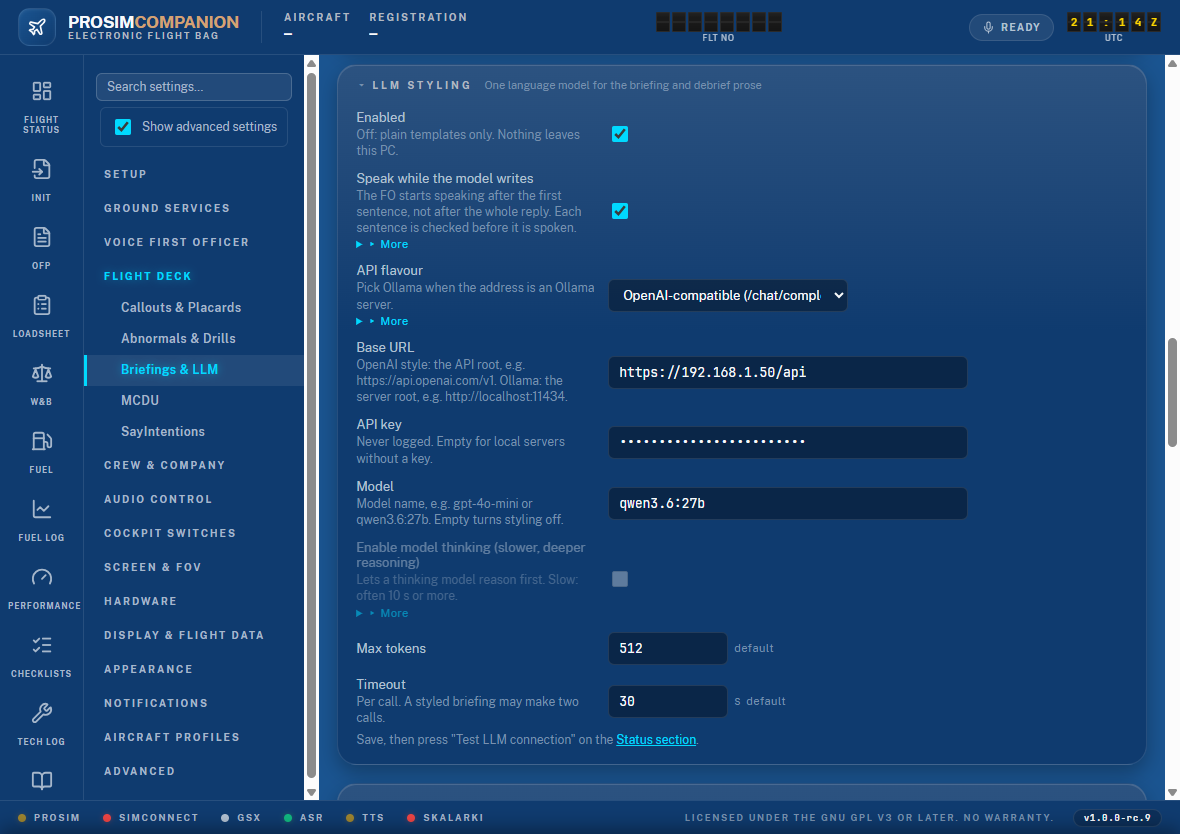
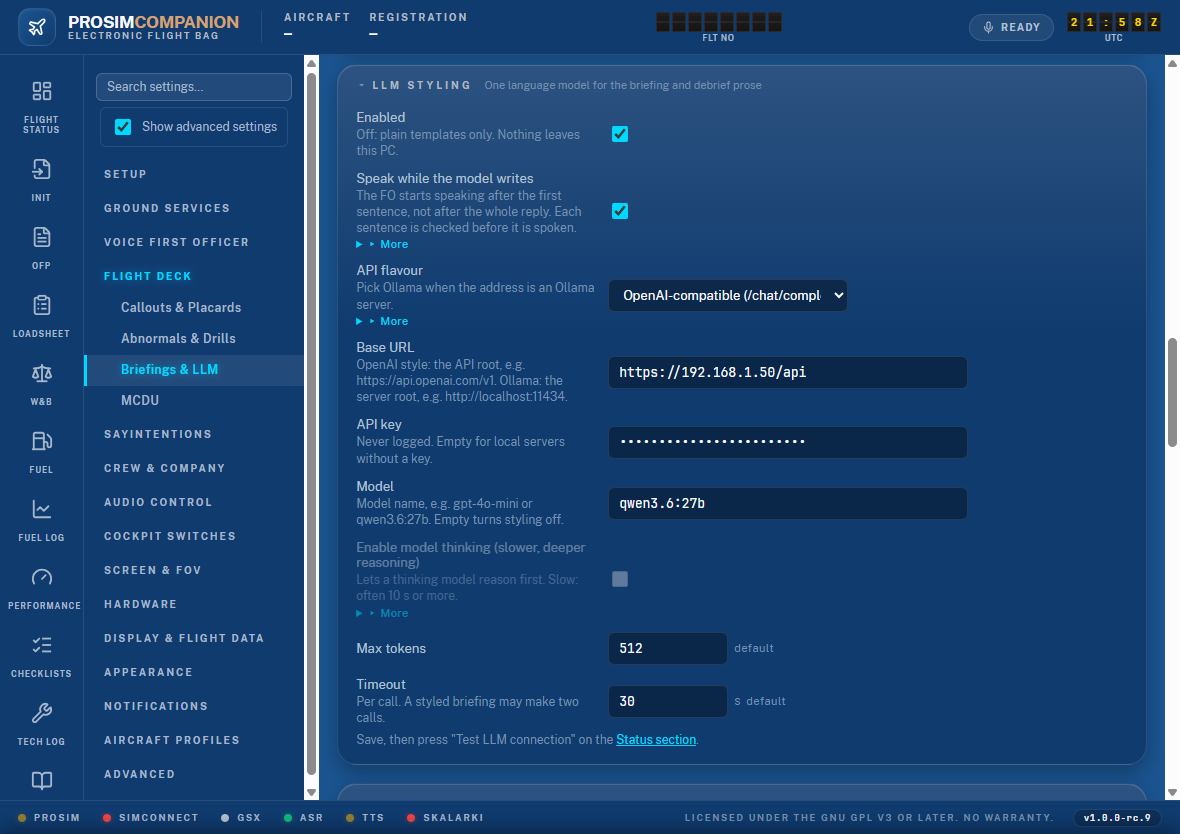
Manual chapter 17 "SayIntentions: ATC requests, the radios and weather", and three pictures retaken on a build of this branch.
Owner request 2026-11-16. docs/manual/17-sayintentions.md: what needs an active flight and what needs only the API key, Auto against Manual key, the set-up steps, the spoken requests with the call each one makes (from the shipped atc-requests.json), the three ways to share the radios with the SayIntentions copilot (requests only, Comms hand-over, FO works the radios) and which switch makes which other one inert, push-to-talk from a ProSim switch with the ATC mute it sets, the arrival gate from ATC, weather, a check, and a troubleshooting table with the FO's real lines. Its row in docs/manual/README.md (Voice First Officer group), chapter 15's "Next:" link now leads to it, and the sayIntentions row of 04-settings-reference.md gives the new menu path and links it.

Pictures, taken on the owner's dev PC from the local 1.0.0-rc.9 built from this branch, server addresses changed in the browser only: docs/img/sayintentions.png (new; the page in its own menu place, switched on), speech-recognition-server.png (the type now reads "OpenAI-style (/v1/audio/transcriptions)"; the port shown is the example one), briefings-llm.png (the API key is the app's own password field now).
[…]

diff --git a/docs/manual/17-sayintentions.md b/docs/manual/17-sayintentions.md
@@ -1,0 +1,170 @@
+# SayIntentions: ATC requests, the radios and weather
+
+SayIntentions is an online ATC service with AI controllers. With it switched on in
+ProsimCompanion you ask the First Officer by voice to call ATC ("request push and start"),
+the FO watches that COM1 is on the frequency ATC gave you, and the app gets ATIS, METAR and
+TAF for your airports. SayIntentions is a paid service of its own
+(<https://www.sayintentions.ai>); the app adds no cost. You need the SayIntentions program
+installed and signed in on the sim PC.
+
+In every version since **0.3.0-beta.30**. The cards **Comms hand-over** and
+**FO works the radios** arrived later.
+
+![SayIntentions settings](../img/sayintentions.png)
+
+## Before you start
+
+**What needs what.**
+
+| You want | What must be there |
+|---|---|
+| Voice requests to ATC, the radios features | The SayIntentions program running, with an active flight |
+| Weather (ATIS, METAR, TAF) and the CPDLC logon | Only the API key. No active flight is needed. |
+| Push-to-talk from a cockpit button | MSFS running |
+
+**The API key.** The API key is the password the app uses to talk to SayIntentions for you.
+With **Auto (from flight.json)** you type nothing: the app reads the key from a file that
+the SayIntentions program writes on this PC
+(`%LOCALAPPDATA%\SayIntentionsAI\flight.json`). This only works when SayIntentions runs on
+the same PC and the same Windows account as ProsimCompanion. If it runs on another PC,
+choose **Manual (entered below)** and paste the key.
+
+**The three things people get wrong:**
+
+1. **Two voices answer ATC.** SayIntentions has its own copilot who can work the radios. The
+   app's FO can do that job too. Decide who does it; see "Who works the radios" below.
+2. **The FO hears you talk to ATC.** With continuous listening the FO listens while you
+   speak to the controller. Tell the app which button is your ATC button; see
+   "Push-to-talk from the cockpit" below.
+3. **Every call is heard twice.** The FO says the radio call aloud before it is sent. If
+   SayIntentions plays the same call on your setup, untick **FO speaks the transmission**.
+
+## Set it up
+
+1. Start SayIntentions on the sim PC and sign in.
+2. In ProsimCompanion open **Settings → SayIntentions**
+   (`http://localhost:5320/settings/speech/sayIntentions`).
+3. Tick **Use SayIntentions**. The other fields unlock.
+4. **API key**: leave it on **Auto (from flight.json)**. Only when SayIntentions runs on
+   another PC: choose **Manual (entered below)** and paste the key into **Manual API key**.
+5. **Phraseology**: how the FO says numbers on the radio. Leave ICAO, or choose FAA or UK
+   for flights there.
+6. Leave **FO speaks the transmission** ticked.
+7. Leave **Wrong-frequency report** ticked and **Wait before the report** on `60` s.
+8. Leave the rest as it is.
+9. Press **Save** in the bar at the bottom of the page.
+
+No restart is needed.
+
+## What you can say
+
+Hold your FO push-to-talk key and say the request. The FO answers, for example
+*"Roger — calling Ground."*, waits until the frequency is quiet, and then makes the call on
+COM1.
+
+| You say | The FO calls | The call (ICAO style) |
+|---|---|---|
+| "request clearance" | Clearance Delivery | "Delivery, *callsign*, request clearance" |
+| "request start" | Ground | "Ground, *callsign*, stand *n*, request start up" |
+| "request push and start" | Ground | "Ground, *callsign*, stand *n*, request push and start" |
+| "request taxi" | Ground | "Ground, *callsign*, stand *n*, request taxi" |
+| "ready for departure", "request takeoff", "call the tower" | Tower | "Tower, *callsign*, holding point runway *nn*, ready for departure" |
+| "request climb", "request higher" | Center | "*callsign*, request climb, flight level *nnn*" |
+| "request diversion" | Center | "*callsign*, request diversion to *airport*" |
+
+The callsign, stand and runway come from SayIntentions. The header's **VOICE** button shows
+the full list in the app. The phrases and the wording of each call are in the file
+`atc-requests.json` in `%LOCALAPPDATA%\ProsimCompanion\config\`; you can add your own.
+
+**Auto-tune frequency** (off): tick it and the FO tunes the station on COM1 before a request.
+
+## Who works the radios
+
+Choose one of three ways. Start with the first.
+
+| Way | What happens | How to switch it on |
+|---|---|---|
+| **1. Requests only** | You ask the FO for each call, as in the table above. Everything else on the radio is as you set it in SayIntentions. | This is what you have after "Set it up". |
+| **2. Comms hand-over** | The SayIntentions copilot works the radios at the gate, on the taxi and in the cruise. You take them at the holding point and on the approach. The FO tells you each hand-over in one line. | In the card **Comms hand-over** tick **Hand the radios over by flight phase**. Leave the other switches of the card as they are. |
+| **3. FO works the radios** | The SayIntentions copilot is switched off. The FO reads back every ATC instruction, tunes COM1 on a hand-off and checks in on the new frequency. One voice on the radio. The page says: "Not yet verified in flight." | In the card **FO works the radios** tick **FO works the radios**. |
+
+- With way 3 on, the **Comms hand-over** card is ignored.
+- With way 2 on, **Departure comms gate (legacy)** is ignored. That older switch gave you the
+  radios near the runway; it is only used with way 1.
+- At any time say *"I have the radios"* to take them and *"you have the radios"* to give
+  them back.
+- In way 2 the holding-point step needs the departure runway in the FMS. Without a known
+  runway it cannot happen.
+
+More about what the FO says on the radio: [Voice First Officer](03-voice-fo.md).
+
+## Push-to-talk from the cockpit
+
+Use this when the button you talk to ATC with is a sidestick or hand-mic button that ProSim
+knows (it can be on another PC). The app then presses SayIntentions' talk button for you, and
+the FO stops listening while you hold it.
+
+1. In ProSim, bind your button to the sidestick or hand-mic PTT switch.
+2. In the SayIntentions program, under **Controls**, switch on the option to map PTT inside
+   the sim with an LVAR.
+3. In ProsimCompanion, on the SayIntentions page, choose your switch in **Push-to-talk from
+   the cockpit**, for example **Captain sidestick PTT**.
+4. Leave **SayIntentions PTT control** on **COM radio PTT (the selected radio)**.
+5. Press **Save**.
+
+When you choose a switch here, the app sets **ATC mute from a ProSim switch** on
+**Settings → Voice First Officer → Listening & PTT** to the same switch, if that field was
+still **Off**. This is what keeps the FO from hearing your ATC calls.
+
+## Arrival gate and weather
+
+- **Arrival gate from ATC** (off): tick it and the gate that SayIntentions ATC gives you
+  becomes the GSX arrival gate. A gate you set yourself on the OFP page always wins. It is
+  off because the gate ATC picks may not exist in your airport scenery.
+- **SayIntentions Weather**: the card's **Enabled** switch is on. It gets ATIS, METAR and
+  TAF for the airports of your flight plan and keeps each report for 10 minutes.
+
+## Check that it works
+
+1. Open the **Flight Status** page and look at the **Radios** tile. With SayIntentions on and
+   a flight active it shows COM1 and, beside **ATC expects**, the frequency ATC gave you.
+   Before ATC has named one it reads "SayIntentions has not named a station yet".
+2. With a flight active in SayIntentions, hold your FO key and say *"request clearance"*.
+   You hear *"Roger — calling Clearance Delivery."* and then the call. SayIntentions ATC
+   answers.
+3. If you set up the cockpit push-to-talk: hold the button. SayIntentions shows that you are
+   transmitting.
+
+## If it does not work
+
+| What you see or hear | Why | What to do |
+|---|---|---|
+| The Radios tile reads "Switch SayIntentions on under Settings → SayIntentions to see which frequency ATC expects" | **Use SayIntentions** is unticked, or you did not press **Save**. | Tick it and **Save**. |
+| The FO says "SayIntentions has no active flight." | The SayIntentions program is not running, or no flight is started in it. | Start SayIntentions and start the flight there. |
+| The FO says "I can't reach SayIntentions — no API key." | With **Auto**: the app found no key file on this PC, because SayIntentions runs on another PC or another Windows account, or has never run here. With **Manual**: the **Manual API key** field is empty. | Run SayIntentions on the sim PC, or choose **Manual (entered below)** and paste the key. |
+| The FO says "The SayIntentions request failed — see the log." | SayIntentions did not accept the call: no internet, the service is down, or a pasted key is no longer valid. | Check the internet connection. With **Manual**, paste the key again. Look at the Logs page. |
+| "Stored key can't be decrypted on this PC/user (settings copied from elsewhere) — re-enter it and save." under the key field | `settings.json` came from another PC or Windows account. | Paste the **Manual API key** again and **Save**. |
+| You hear every call twice | The FO says it and SayIntentions plays it too. | Untick **FO speaks the transmission**. |
+| The FO answers "Roger — calling …" and then waits | The FO waits until nobody talks on the frequency, at most 20 seconds. | Nothing. This is normal. |
+| The FO reacts when you talk to ATC | The FO does not know your ATC button. | Set up "Push-to-talk from the cockpit", or bind **ATC push-to-talk (mute)** on **Listening & PTT**. |
+| The Radios tile shows **WRONG FREQUENCY**, or the FO tells you COM1 is on another frequency | COM1 is not on the frequency of ATC's last "Contact … on …". | Press **Tune** on the tile, or tune it yourself. |
+| COM1 jumps back to another frequency about a second after you change it, or your squawk code changes by itself | MSFS's own ATC helper is tuning the radio. | In MSFS, Assistance options, switch **AI Radio Communications (ATC)** off. |
+| The cockpit push-to-talk does nothing | MSFS is not running, the button is not bound to the switch in ProSim, or the LVAR option in SayIntentions is off. | Check the three steps in "Push-to-talk from the cockpit". |
+| With **Comms hand-over** on, you never get the radios at the holding point | The app does not know the departure runway. | Enter the runway in the FMS before you taxi. Say *"I have the radios"* to take them now. |
+| The arrival gate from ATC is not found by GSX | The gate ATC picked does not exist in your scenery. | Choose the gate yourself on the OFP page. Untick **Arrival gate from ATC** if it happens often. |
+
+For anything else: reproduce it, then use **Export diagnostics** on the Logs page and send
+the zip. Your key is never in the logs and is removed from the exported settings.
+
+## Related chapters
+
+- [Voice First Officer](03-voice-fo.md): the radio calls in detail, "FO works the radios".
+- [Settings reference](04-settings-reference.md): the `sayIntentions` section and
+  `atc-requests.json`.
+- [Speech recognition server](16-speech-recognition-server.md): the FO hears requests more
+  reliably with one.
+- [Troubleshooting](05-troubleshooting.md).
+
+---
+
+**Next:** [Loudspeaker dial](08-loudspeaker-dial.md) · [Manual contents](README.md)

diff --git a/docs/manual/04-settings-reference.md b/docs/manual/04-settings-reference.md
@@ -46,7 +46,7 @@ for the DFD database), else the system drive.
 | `smallTalk` | Settings → Flight Deck → Briefings & LLM → Small Talk | Cruise small talk (#195) — `enabled` off, `maxPerFlight` 3 (the ceiling; the persona's chattiness is the count), `minQuietMinutes` 8, `kinds.offer` / `kinds.view` / `kinds.layover` / `kinds.crew` on |
 | `groundCrew.walkaround` | Settings → Crew & Company → Ground Crew → Walkaround | The FO's exterior walkaround (#196) — `enabled` off, `minMinutes` 6, `maxMinutes` 10, `findingChance` 0.15, `allowNoGo` off, `onInterphone` on; the findings are `walkaround-findings.json` |
 | `scenario` | Settings → Flight Deck → Abnormals & Drills → Scenarios | Scenario mode (#197, ADR-0018) — `enabled` off, `perFlightChance` 0.10, `allowMajor` off, `takeoffScenarios` off, `minAltitudeFt` 1500, `showPlanned` off; the catalogue is `scenarios.json` (entries need `verified: true` with ProSim's exact failure name) |
-| `sayIntentions` | Settings → Flight Deck → SayIntentions | API key source, phraseology, auto-tune, departure gating, the wrong-frequency report (`frequencyMonitorEnabled` true, `frequencyMonitorWaitSeconds` 60), **arrival gate from ATC** (`arrivalGateFromAtc` off — SayIntentions' assigned gate becomes the GSX arrival gate), weather |
+| `sayIntentions` | Settings → SayIntentions | setup guide: [chapter 17](17-sayintentions.md); API key source, phraseology, auto-tune, departure gating, the wrong-frequency report (`frequencyMonitorEnabled` true, `frequencyMonitorWaitSeconds` 60), **arrival gate from ATC** (`arrivalGateFromAtc` off — SayIntentions' assigned gate becomes the GSX arrival gate), weather |
 | `cabin` | Settings → Crew & Company → Cabin Crew | purser reports, the cabin-secure wait (`cabinSecureMinDelaySeconds` 45, `cabinSecureSecondsPerPax` 1.0, `cabinSecuringReplyText`), the FO's cabin-call auto-answer (`autoAnswerGround` off / `autoAnswerGroundDelayMs` 4000, `autoAnswerAir` off / `autoAnswerAirDelayMs` 2500), ambient events, the purser cruise query (`cruiseQuery` off, `cruiseQueryDelayMinutes` 10, `cruiseQueryWindowSeconds` 20, wording `cruiseQueryText` / `cruiseQueryEtaAckText` / `cruiseQueryRideAckText` / `cruiseQueryGenericAckText` / `cruiseQueryNoReplyText`), **turbulence** (`turbulenceDetection` off, `turbulenceUnit` auto, `turbulenceLightG` 0.2 / `turbulenceModerateG` 0.5 / `turbulenceSevereG` 1.0, `turbulenceSeatbeltAdvice` off, `turbulencePurserCall` off), **captain's PA** (`paPrompts` off, `paAfterTakeoffMinutes` 10, `purserPaAudible` off), the turbulence and PA wording (`turbulenceCallText` … `paPrepareLandingText`), dings, interphone chime |
 | `company`, `debrief`, `day` | Settings → Crew & Company → Company & Debrief | company channel (auto loadsheet read, ACARS chime, cruise messages + probability, **movement messages** (`movementMessages` off, `movementMessagesSpoken` off — the MVT AD/AA telex in RCVD MSGS slots 06/07), **delay codes** (`delayCodes` off — the FO asks for the IATA code when off blocks is late; `delayToleranceMinutes` 15 is the on-time rule for the question, the Logbook and the day summary; the list is `%LOCALAPPDATA%\ProsimCompanion\config\delay-codes.json`), save the spoken loadsheet), post-flight debrief (on, full / brief, LLM styling), company day mode (auto track — **on by default since 1.0**, ADR-0019 §7; a settings.json that says `false` keeps saying it — start at first preflight, the next leg starts on its OFP (never on the Preflight edge), turnaround summary, post-flight allowance, **auto-close idle** (`autoCloseIdleMinutes` **300** since 1.0, ADR-0019 §8 — counted from deboarding complete, else on-blocks; phase edges and restarts never reset it; a settings.json with its own figure keeps it; 0 = never), **FO offers to end the day after** (`endOfDutyOfferMinutes` 10 — once cold and dark, parked, with no plan for this long the FO asks once "Captain, is that the end of our duty day?"; yes ends the day, no or silence leaves it open; 0 = never ask), rotations folder — empty = `%LOCALAPPDATA%\ProsimCompanion\config\rotations`, seeded with a `README.txt` that shows the file format — the **FDP warning** (`fdpWarning` off, `reportBeforeStdMinutes` 60; the EASA table is `%LOCALAPPDATA%\ProsimCompanion\config\ftl-easa.json`) and the state file) |
 | `flightData` | Settings → Display & Flight Data | SimBrief fetch attempts, prelim/final loadsheet triggers and delays, last-minute changes (`lmcEnabled` off, `lmcMaxPax` 4, `lmcMaxWeightKg` 300, `lmcMaxMacShift` 0.5, `lmcAutoRevise` off) |

diff --git a/docs/manual/README.md b/docs/manual/README.md
@@ -42,6 +42,7 @@ the chapters were written, not the reading order; every chapter ends with a link
 | [ElevenLabs voices](06-elevenlabs.md) | Step-by-step setup: API key, voice, plan, crew voices, cost control |
 | [Speech recognition server: connecting whisper.cpp or faster-whisper](16-speech-recognition-server.md) | Pointing the app at a whisper.cpp server or the faster-whisper example server: which server flavour, the address exactly as it must be typed, the wrong-flavour trap where everything stays green, a check before and inside the app, troubleshooting |
 | [Language model (LLM): connecting your own server](15-language-model.md) | Pointing the app at Ollama, Open WebUI, LM Studio, llama-server or OpenAI: which API flavour, the Base URL exactly as it must be typed, the model name, thinking models, a check before and inside the app, troubleshooting |
+| [SayIntentions: ATC requests, the radios and weather](17-sayintentions.md) | Switching SayIntentions on, the API key (Auto or Manual), what you can say to have the FO call ATC, the three ways to share the radios with the SayIntentions copilot, push-to-talk from a cockpit button, the arrival gate from ATC, weather, troubleshooting |
 
 ### Audio
 

diff --git a/docs/manual/15-language-model.md b/docs/manual/15-language-model.md
@@ -180,4 +180,4 @@ the zip. Your key is never in the logs and is removed from the exported settings
 
 ---
 
-**Next:** [Loudspeaker dial](08-loudspeaker-dial.md) · [Manual contents](README.md)
+**Next:** [SayIntentions](17-sayintentions.md) · [Manual contents](README.md)
